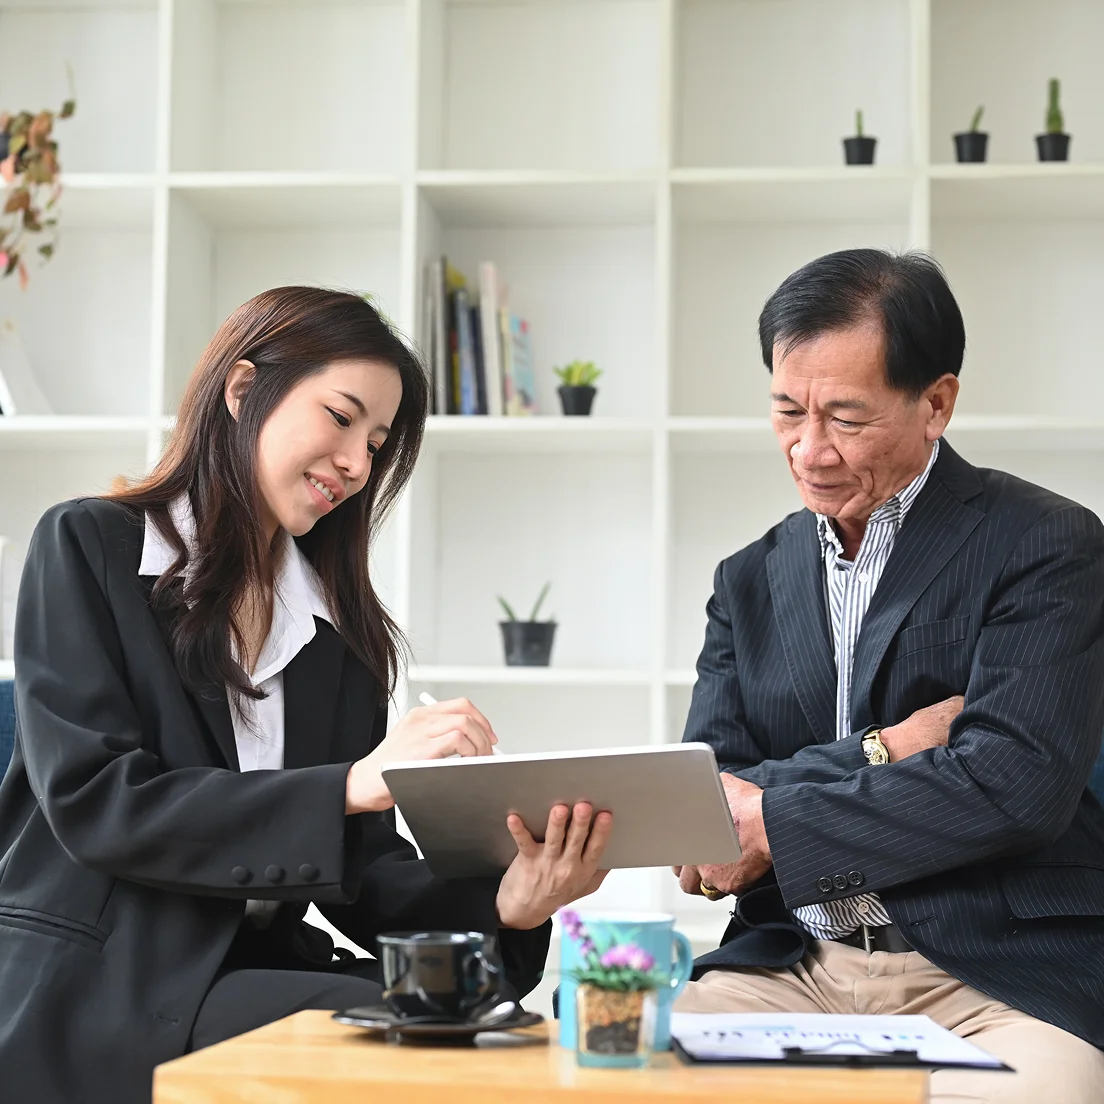
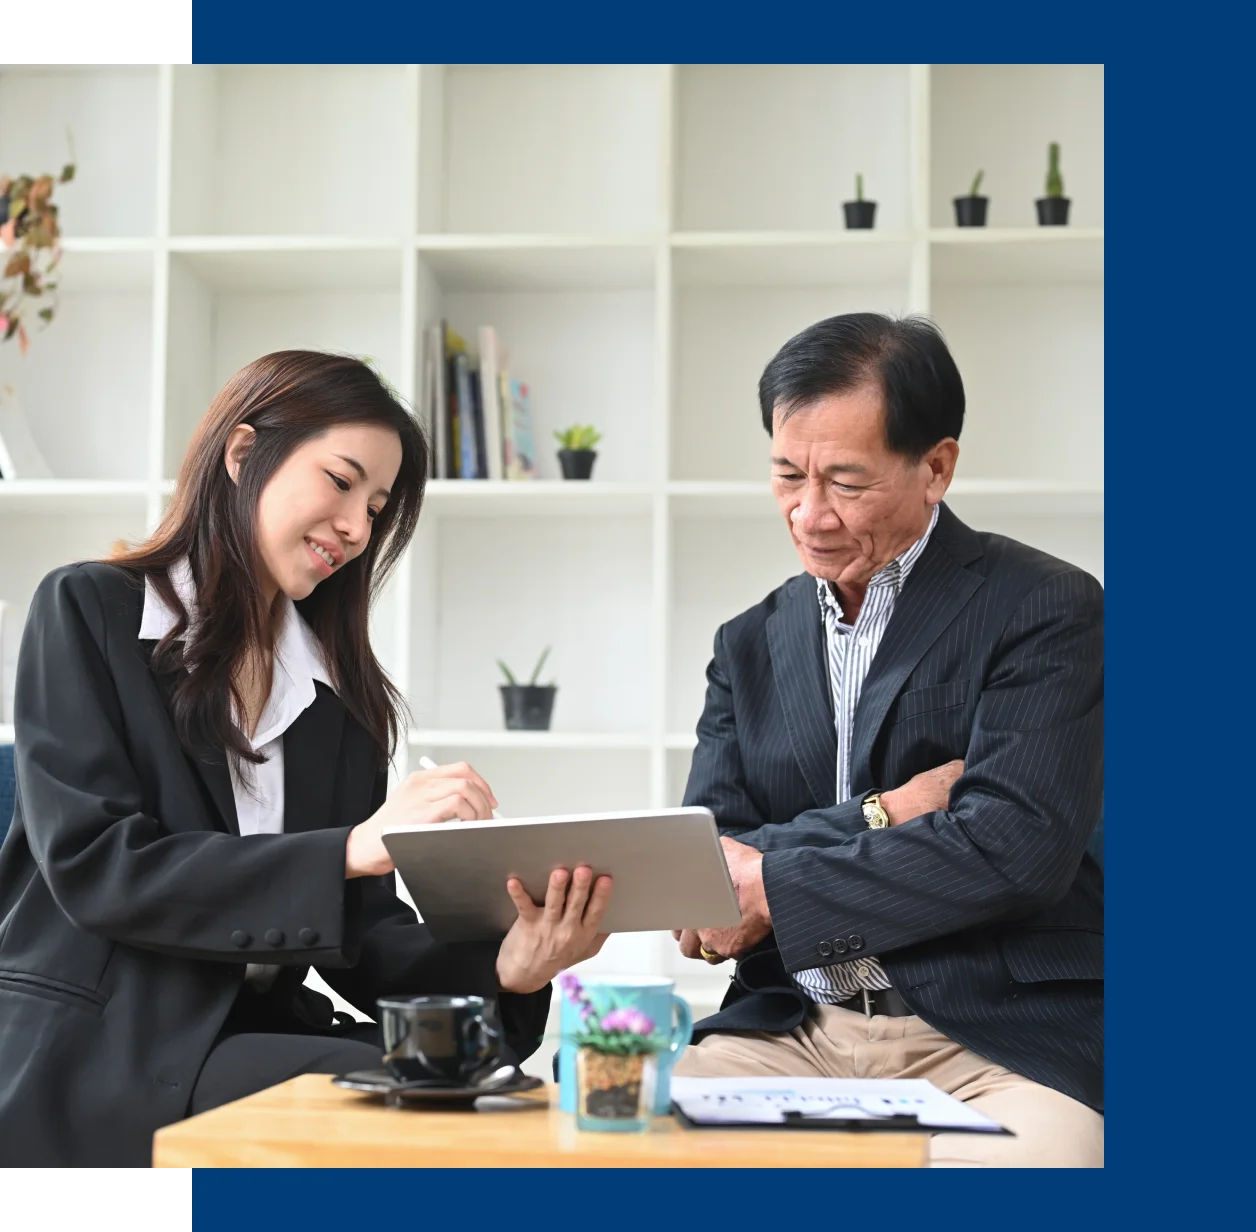
Refinement 1Jul2025

diff --git a/public/css/style.css b/public/css/style.css
@@ -53,7 +53,7 @@ body{
 h2{
     color: #003D79;
     font-family: "myriad-pro", sans-serif;
-    font-weight: bold;
+    font-weight: 500;
     font-style: normal;
 }
 
@@ -73,7 +73,7 @@ h3{
 }
 
 h4{
-    color: #fff;
+    color: #003D79;
     font-family: "myriad-pro", sans-serif;
     font-weight: 700;
     font-style: normal;
@@ -390,7 +390,7 @@ p{
     top: 0;
     left: 0;
     bottom: 0;
-    padding: 2rem;
+    padding: 8rem;
     color: white;
     /* background: linear-gradient(to right, rgba(0, 28, 61, 0.95) 40%, rgba(0, 28, 61, 0.5) 70%, rgba(0, 28, 61, 0) 100%); */
     display: flex;
@@ -553,12 +553,15 @@ p{
 
 /* Solutions */
 .strong_foundation{
-    margin-top: 30px;
-    margin-bottom: 100px;
+    margin-top: 100px;
+    margin-bottom: 50px;
 }
 .strong_foundation h4{
     font-weight: bold;
     color: #003D79;
+}
+.growth_driven{
+    margin-top:100px;
 }
 .growth_driven h4{
     font-weight: bold;
@@ -566,7 +569,7 @@ p{
 }
 .money_market{
     margin-top: 100px;
-    margin-bottom: 100px;
+    margin-bottom: 50px;
 }
 .money_market h6{
     font-weight: 400;
@@ -577,6 +580,12 @@ p{
 .unique_advantage{
     margin-top: 50px;
     margin-bottom: 20px;
+}
+.unique_advantage h6{
+    font-weight: 400;
+    font-size: 20px;
+    color: #003D79;
+    margin-bottom: 5px;
 }
 .empower_change{
     margin-top: 100px;

diff --git a/resources/views/solutions.blade.php b/resources/views/solutions.blade.php
@@ -5,19 +5,19 @@
  
 @section('content')
 <div class="my-3">&nbsp;</div>
-<div class="container overlay-section my-5 d-none d-md-block">
-    <img src="{{ asset('images/hero-solutions.webp') }}" class="img-fluid" alt="Solutions" />
+    <div class="container-fluid overlay-section d-none d-md-block">
+        <img src="{{ asset('images/hero-solutions.webp') }}" class="img-fluid" alt="Solutions" />
 
-    <!-- Text overlay -->
-    <div class="overlay-content">
-      <small class="fs-4" style="font-weight: 500">Solutions</small>
-      <h2 class="display-5 text-white">We Open Path to</h2>
-      <h2 class="display-5 text-white"><span class="highlight-yellow">Empower Your Growth</span> in</h2>
-      <h2 class="display-5 text-white">Indonesia's Thriving Market</h2>
-      <p class="mt-3 text-white subheadline_outlook">
-      We provide investment strategies designed to optimize growth <br> in high liquidity solutions.
-      </p>
-    </div>
+        <!-- Text overlay -->
+        <div class="overlay-content">
+        <small class="fs-4" style="font-weight: 500">Solutions</small>
+        <h2 class="display-5 text-white">We Open Path to</h2>
+        <h2 class="display-5 text-white"><span class="highlight-yellow">Empower Your Growth</span> in</h2>
+        <h2 class="display-5 text-white">Indonesia's Thriving Market</h2>
+        <p class="mt-3 text-white subheadline_outlook">
+        We provide investment strategies designed to optimize growth <br> in high liquidity solutions.
+        </p>
+        </div>
   </div>
 <div class="container-fluid"></div>
 
@@ -41,7 +41,7 @@
     </div>
 </div>
 
-<div class="container">
+<div class="container strong_foundation">
     <div class="row">
         <div class="col-12 text-center">
             <h2>We Stand on <span class="highlight-yellow">Strong Foundation.</span></h2>
@@ -50,10 +50,10 @@
     </div>
 </div>
 
-<div class="container strong_foundation">
+<div class="containe-fluid">
     <div class="row">
-        <div class="col-lg-1"></div>
-        <div class="col-lg-10">
+        <div class="col-lg-2"></div>
+        <div class="col-lg-8">
             <div class="row gx-5">
                 <div class="col-12 col-lg-4 mb-lg-0 mb-4">
                     <img src="{{ asset('images/Monetary_Authority_of_Singapore.png') }}" alt="" height="55" class="mb-3">
@@ -72,15 +72,15 @@
                 </div>
             </div>
         </div>
-        <div class="col-lg-1"></div>
+        <div class="col-lg-2"></div>
         
     </div>
 </div>
 
-<div class="container growth_driven">
+<div class="container-fluid growth_driven">
     <div class="row">
-        <div class="col-lg-1"></div>
-        <div class="col-lg-5">
+        <div class="col-lg-2"></div>
+        <div class="col-lg-4">
             <h2>Growth Driven <br> <span class="highlight-yellow">Curated Solutions.</span></h2>
             <p class="mt-3 mb-4">We are dedicated to walk you in a secure & reliable path. So you can grow your wealth with peace of mind.</p>
             <div class="row g-0">
@@ -122,7 +122,7 @@
     <div class="row">
         <div class="col-12 text-center">
             <h6>Money Market</h6>
-            <h2>Optimal Growth, <span class="highlight-yellow">Highly Liquid</span></h2>
+            <h2>Optimal Growth, <span class="highlight-yellow">Highly Liquid.</span></h2>
             <p class="my-3">Grow your funds securely and optimally.</p>
         </div>
     </div>
@@ -179,7 +179,7 @@
     <div id="investmentChart"></div>
 </div>
 
-<div class="container empower_change">
+<div class="container-fluid empower_change">
     <div class="row align-items-center">
         <div class="col-lg-6">
             <img src="{{ asset('images/empower-change.webp') }}" class="img-fluid" alt="">
@@ -204,12 +204,12 @@
     </div>
 </div>
 
-<div class="container empower_change">
+<div class="container-fluid empower_change">
     <div class="row align-items-center">
         <div class="col-lg-1"></div>
         <div class="col-lg-4 mt-lg-0 mt-5 order-2 order-md-1 pe-2">
             <h6>Bespoke Solutions</h6>
-            <h2><span class="highlight-yellow">Personalize</span> to Your Needs.</h2>
+            <h2><span class="highlight-yellow">Personalized</span> to <br> Your Needs.</h2>
             <p class="my-2">Whether you're looking for growth, preservation, or optimizing productive funds, we're here for you. Backed by generations of expertise and a diverse range of solutions, we help you identify opportunities, manage risks, and optimize your investment strategy.</p>
             <a href="{{ route('contact') }}" target="_blank">
                 <img src="{{ asset('images/contact-us.webp') }}" height="25" alt="">
@@ -227,7 +227,7 @@
         <div class="col-12 text-center">
             <h6>Our Unique Advantage</h6>
             <h2>Grow with Indonesia, <br> <span class="highlight-yellow">Through Indonesians.</span></h2>
-            <p class="my-2">Grow with us&mdash;invest alongside those who know Indonesia best.</p>
+            <p class="my-3">Grow with us&mdash;invest alongside those who know Indonesia best.</p>
         </div>
     </div>
 </div>
